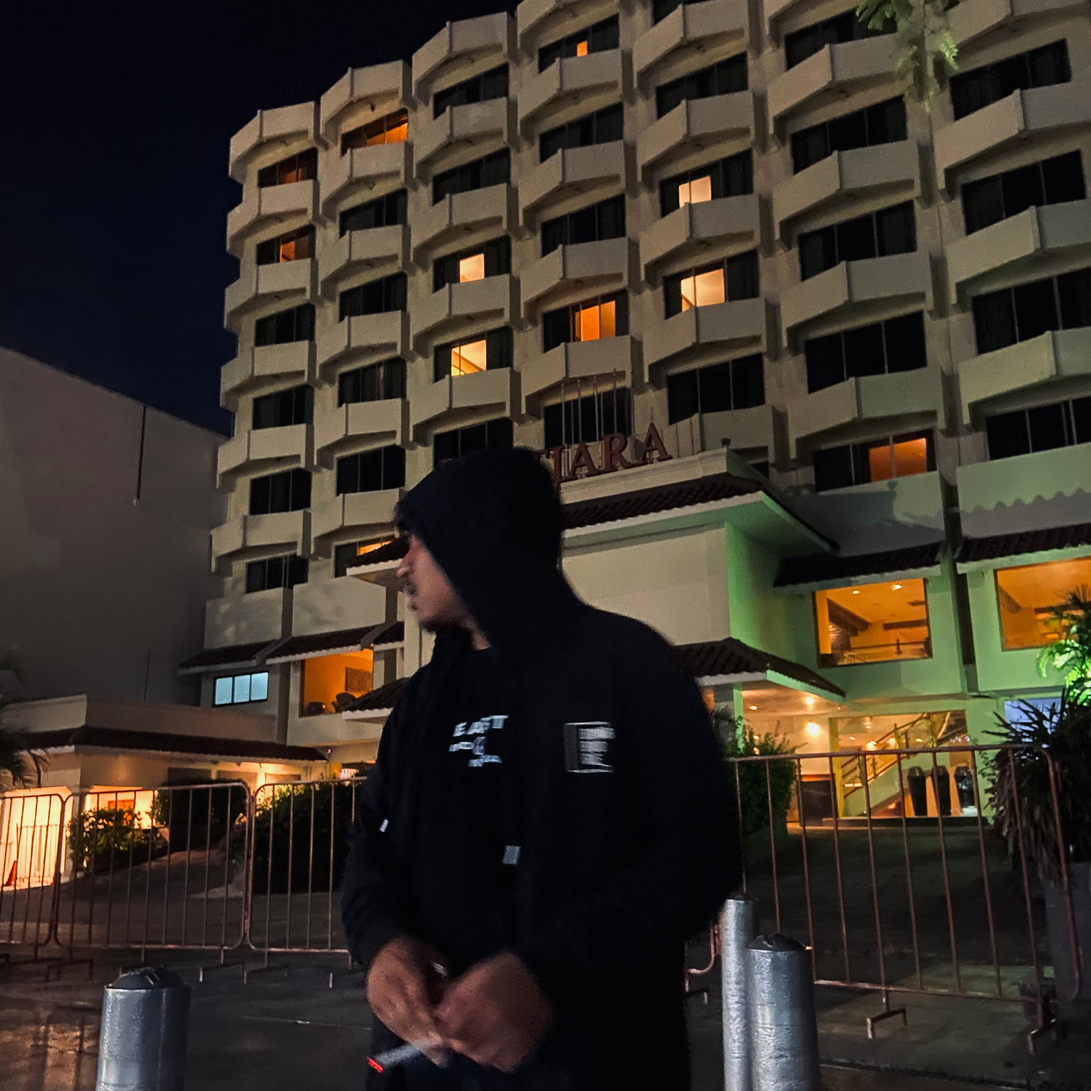
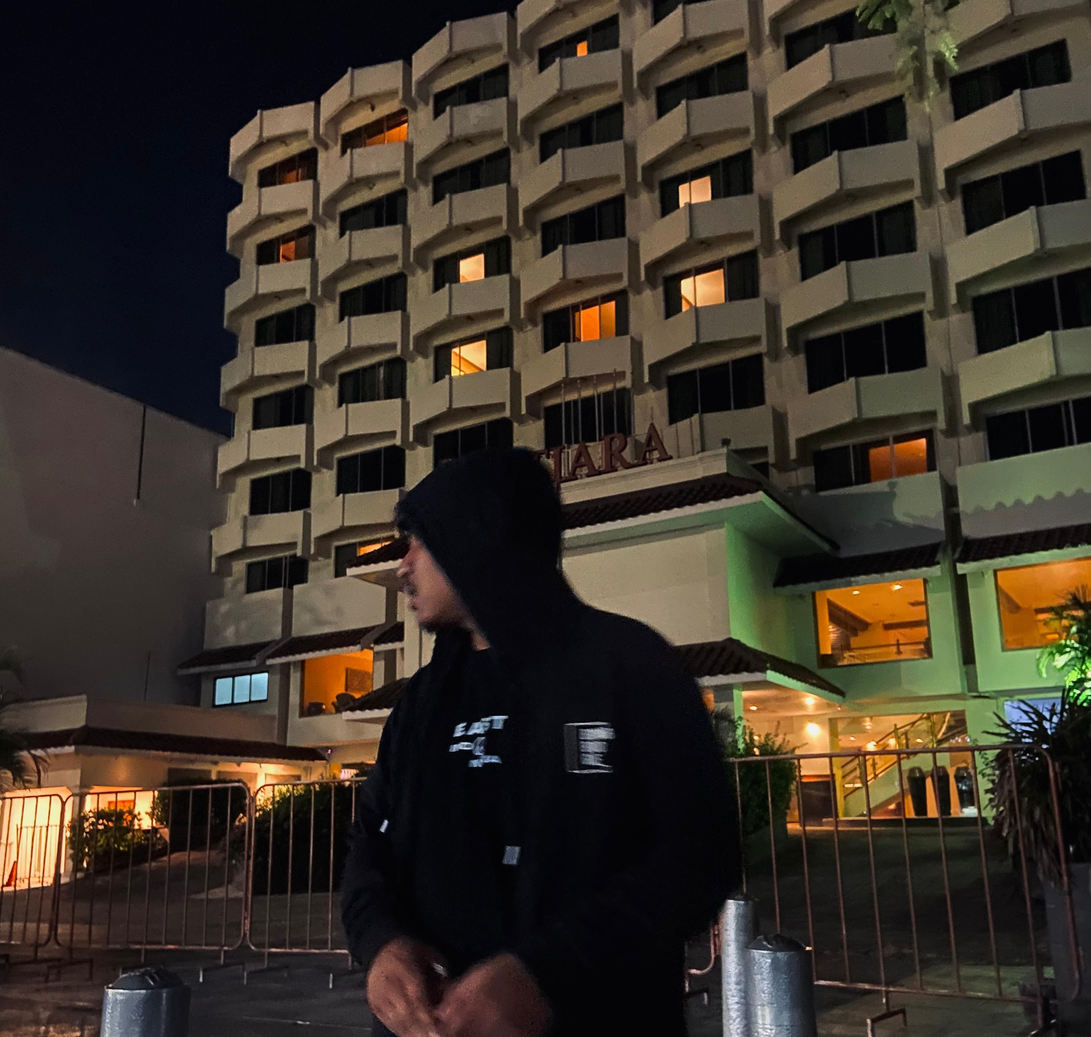
update portofolio

diff --git a/index.html b/index.html
@@ -81,7 +81,7 @@
           <div class="portrait-stage">
             <div class="portrait-halo"></div>
             <div class="portrait-frame media-shell" data-fallback="JHALOPAX">
-              <img src="assets/style/image/Jhalopax-allo.jpeg" alt="Foto profil Afrizal Tuasikal">
+              <img src="assets/style/image/Jhalopax.jpeg.jpeg" alt="Foto profil Afrizal Tuasikal">
             </div>
             <span class="portrait-label label-top">WEB / MOBILE</span>
             <span class="portrait-label label-bottom">UI / GRAPHIC</span>
@@ -298,17 +298,17 @@
         <div class="section-heading section-heading-light reveal reveal-right">
           <p class="section-kicker">04 / PERSONAL ARCHIVE</p>
           <h2 class="section-title">Moment in Jogja</h2>
-          <p class="section-lead">Potongan perjalanan, tempat, dan orang-orang yang ikut berbagi pengalaman selama hidup dan belajar di Yogyakarta.</p>
+          <p class="section-lead">Potongan perjalanan, tempat, dan orang-orang yang ikut memberi warna selama hidup dan belajar di Yogyakarta.</p>
         </div>
 
         <div class="gallery-grid">
           <figure class="gallery-card gallery-wide reveal reveal-left" data-delay="40">
             <div class="media-shell" data-fallback="WATUNENE"><img loading="lazy" src="assets/style/image/web-gambar1.jpeg" alt="Pantai Watunene"></div>
-            <figcaption><strong>Watunene</strong><span>Tenang, sederhana.</span></figcaption>
+            <figcaption><strong>Watunene</strong><span>Tenang, sederhana, dan dekat dengan rumah.</span></figcaption>
           </figure>
           <figure class="gallery-card reveal reveal-up" data-delay="100">
             <div class="media-shell" data-fallback="LERENG"><img loading="lazy" src="assets/style/image/web-gambar2.jpeg" alt="Lereng di Yogyakarta"></div>
-            <figcaption><strong>Lereng Jogja</strong><span>Damai hijau dan ketidakpastian perjalanan.</span></figcaption>
+            <figcaption><strong>Lereng Jogja</strong><span>Damai di antara hijau dan ketidakpastian perjalanan.</span></figcaption>
           </figure>
           <figure class="gallery-card reveal reveal-right" data-delay="160">
             <div class="media-shell" data-fallback="TUGU"><img loading="lazy" src="assets/style/image/web-gambar3.jpeg" alt="Tugu Yogyakarta"></div>
@@ -320,19 +320,27 @@
           </figure>
           <figure class="gallery-card reveal reveal-pop" data-delay="280">
             <div class="media-shell" data-fallback="DUO"><img loading="lazy" src="assets/style/image/Jhalopax deng Rey.jpeg" alt="Momen bersama Rey"></div>
-            <figcaption><strong>Duo</strong><span>Tamang perjalanan, carita yang seng perlu rencana.</span></figcaption>
+            <figcaption><strong>Duo</strong><span>Teman perjalanan, cerita yang tidak selalu perlu direncanakan.</span></figcaption>
           </figure>
           <figure class="gallery-card gallery-wide reveal reveal-up" data-delay="340">
             <div class="media-shell" data-fallback="TRIO"><img loading="lazy" src="assets/style/image/WhatsApp Image 2024-10-18 at 17.36.45.jpeg" alt="Momen trio di Yogyakarta"></div>
-            <figcaption><strong>Trio</strong><span>Jauh dari Ambon, tetapi harus tetap baku lia.</span></figcaption>
+            <figcaption><strong>Trio</strong><span>Jauh dari Ambon, tetapi seng pernah benar-benar sendiri.</span></figcaption>
           </figure>
           <figure class="gallery-card reveal reveal-right" data-delay="400">
             <div class="media-shell" data-fallback="SQUAD"><img loading="lazy" src="assets/style/image/21sq.jpg" alt="Momen bersama squad"></div>
-            <figcaption><strong>Squad</strong><span>Baku kele, baku bantu, deng tumbuh sama-sama.</span></figcaption>
+            <figcaption><strong>Squad</strong><span>Baku kele, baku bantu, dan tumbuh bersama.</span></figcaption>
           </figure>
-          <figure class="gallery-card reveal reveal-slice" data-delay="460">
-            <div class="media-shell" data-fallback="RAMERAME"><img loading="lazy" src="assets/style/image/RAMERAME.jpeg" alt="Momen ramai-ramai"></div>
-            <figcaption><strong>Rame-rame</strong><span>Momen kecil yang barasa paling besar.</span></figcaption>
+          <figure class="gallery-card gallery-card-ramerame">
+            <div class="media-shell" data-fallback="RAMERAME">
+              <img
+                id="ramerameImage"
+                loading="eager"
+                src="assets/style/image/RAMERAME.jpeg"
+                data-src-candidates="assets/style/image/RAMERAME.jpeg|assets/style/image/RAMERAME.jpg|assets/style/image/ramerame.jpeg|assets/style/image/ramerame.jpg|assets/style/image/RAMERAME.JPEG|assets/style/image/RAMERAME.JPG"
+                alt="Momen ramai-ramai"
+              >
+            </div>
+            <figcaption><strong>Rame-rame</strong><span>Momen kecil yang nanti terasa paling besar.</span></figcaption>
           </figure>
         </div>
       </div>
@@ -347,6 +355,7 @@
         </div>
         <div class="contact-actions reveal reveal-right" data-delay="140">
           <a href="mailto:tuasikal230104@gmail.com"><i class="fa-regular fa-envelope"></i><span>Email</span><strong>tuasikal230104@gmail.com</strong></a>
+          <a href="tel:+6282230900302"><i class="fa-solid fa-phone"></i><span>Telepon</span><strong>+62 822-3090-0302</strong></a>
           <a href="https://wa.me/6282230900302" target="_blank" rel="noopener noreferrer"><i class="fa-brands fa-whatsapp"></i><span>WhatsApp</span><strong>Chat langsung</strong></a>
           <a href="https://www.instagram.com/rzhlotuasikal_" target="_blank" rel="noopener noreferrer"><i class="fa-brands fa-instagram"></i><span>Instagram</span><strong>@rzhlotuasikal_</strong></a>
         </div>
@@ -362,6 +371,7 @@
         <p>Web & Mobile Developer · UI Designer · Graphic Designer</p>
       </div>
       <div class="footer-links" aria-label="Kontak footer">
+        <a href="tel:+6282230900302"><i class="fa-solid fa-phone"></i> +62 822-3090-0302</a>
         <a href="mailto:tuasikal230104@gmail.com"><i class="fa-regular fa-envelope"></i> tuasikal230104@gmail.com</a>
         <a href="https://wa.me/6282230900302" target="_blank" rel="noopener noreferrer"><i class="fa-brands fa-whatsapp"></i> WhatsApp</a>
         <a href="https://www.instagram.com/rzhlotuasikal_" target="_blank" rel="noopener noreferrer"><i class="fa-brands fa-instagram"></i> @rzhlotuasikal_</a>

diff --git a/script.js b/script.js
@@ -94,6 +94,28 @@ document.addEventListener("DOMContentLoaded", () => {
     });
   });
 
+  // GitHub Pages bersifat case-sensitive. Untuk gambar RAMERAME,
+  // coba beberapa variasi nama/ekstensi sebelum menampilkan placeholder.
+  const ramerameImage = document.getElementById("ramerameImage");
+  if (ramerameImage) {
+    const candidates = (ramerameImage.dataset.srcCandidates || "")
+      .split("|")
+      .map((value) => value.trim())
+      .filter(Boolean);
+
+    let candidateIndex = Math.max(
+      candidates.indexOf(ramerameImage.getAttribute("src")),
+      0,
+    );
+
+    ramerameImage.addEventListener("error", () => {
+      candidateIndex += 1;
+      if (candidateIndex < candidates.length) {
+        ramerameImage.src = candidates[candidateIndex];
+      }
+    });
+  }
+
   // Keep the layout attractive even before optional images are uploaded.
   document.querySelectorAll(".media-shell img").forEach((image) => {
     const shell = image.closest(".media-shell");

diff --git a/assets/style/style.css b/assets/style/style.css
@@ -1205,6 +1205,16 @@ a {
   background: #111;
 }
 
+/* Card RAMERAME tidak bergantung pada reveal observer agar tidak menghilang
+   ketika berada pada baris terakhir grid. */
+.gallery-card-ramerame {
+  opacity: 1 !important;
+  visibility: visible !important;
+  transform: none !important;
+  clip-path: none !important;
+  filter: none !important;
+}
+
 .gallery-card.gallery-wide {
   grid-column: span 2;
 }
